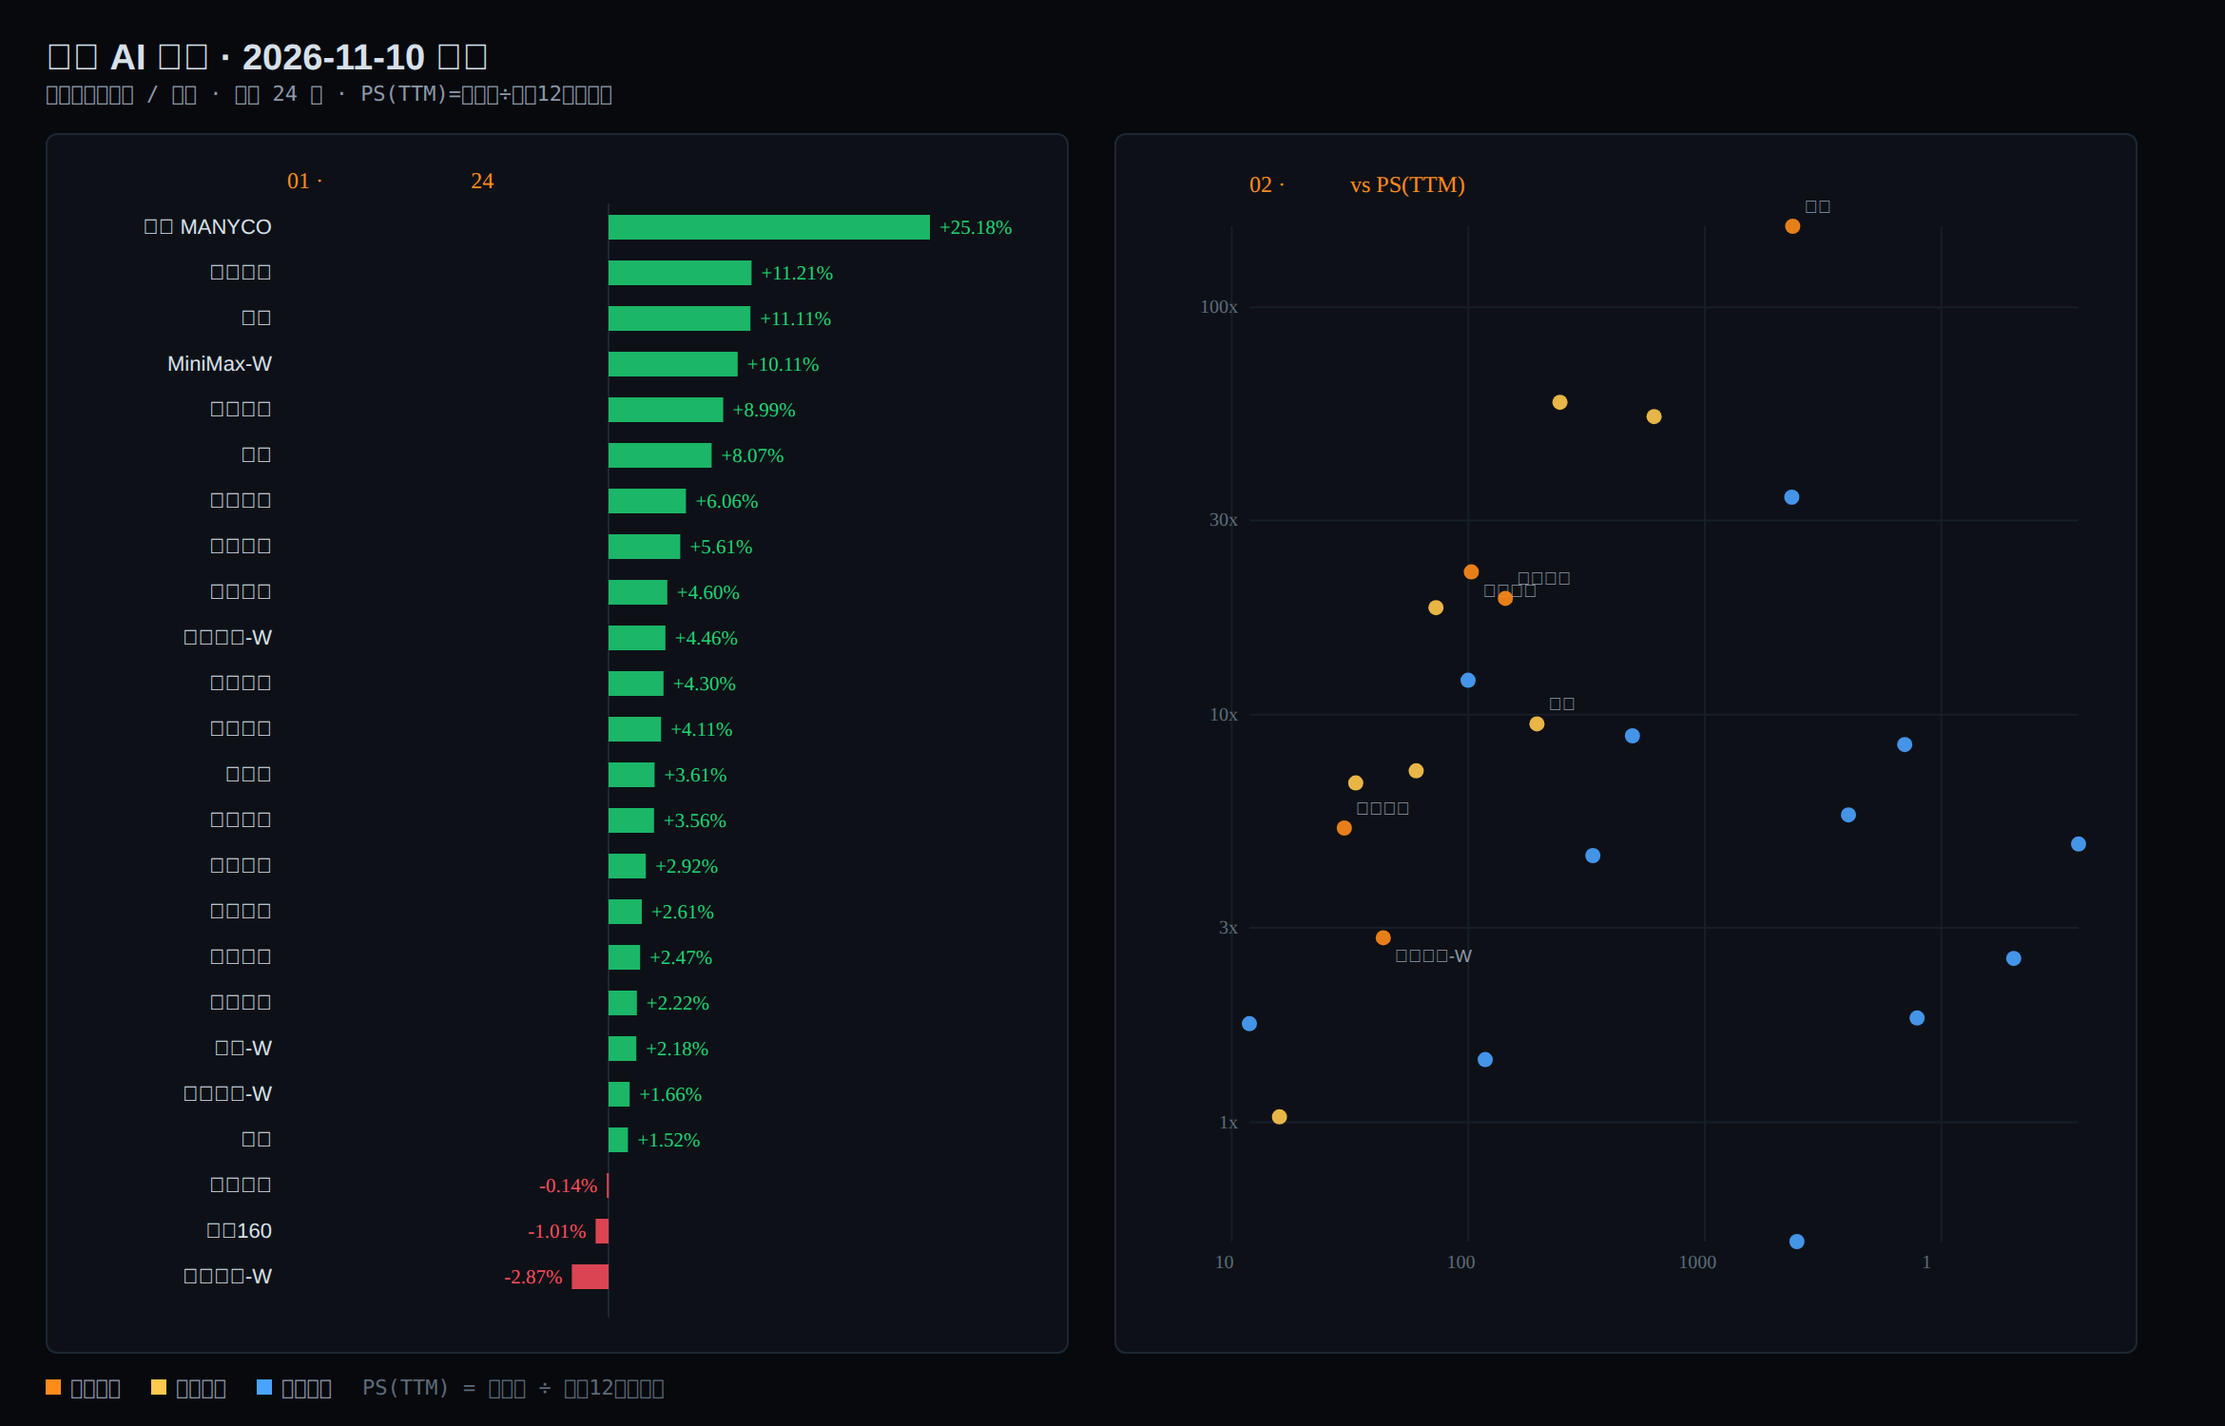
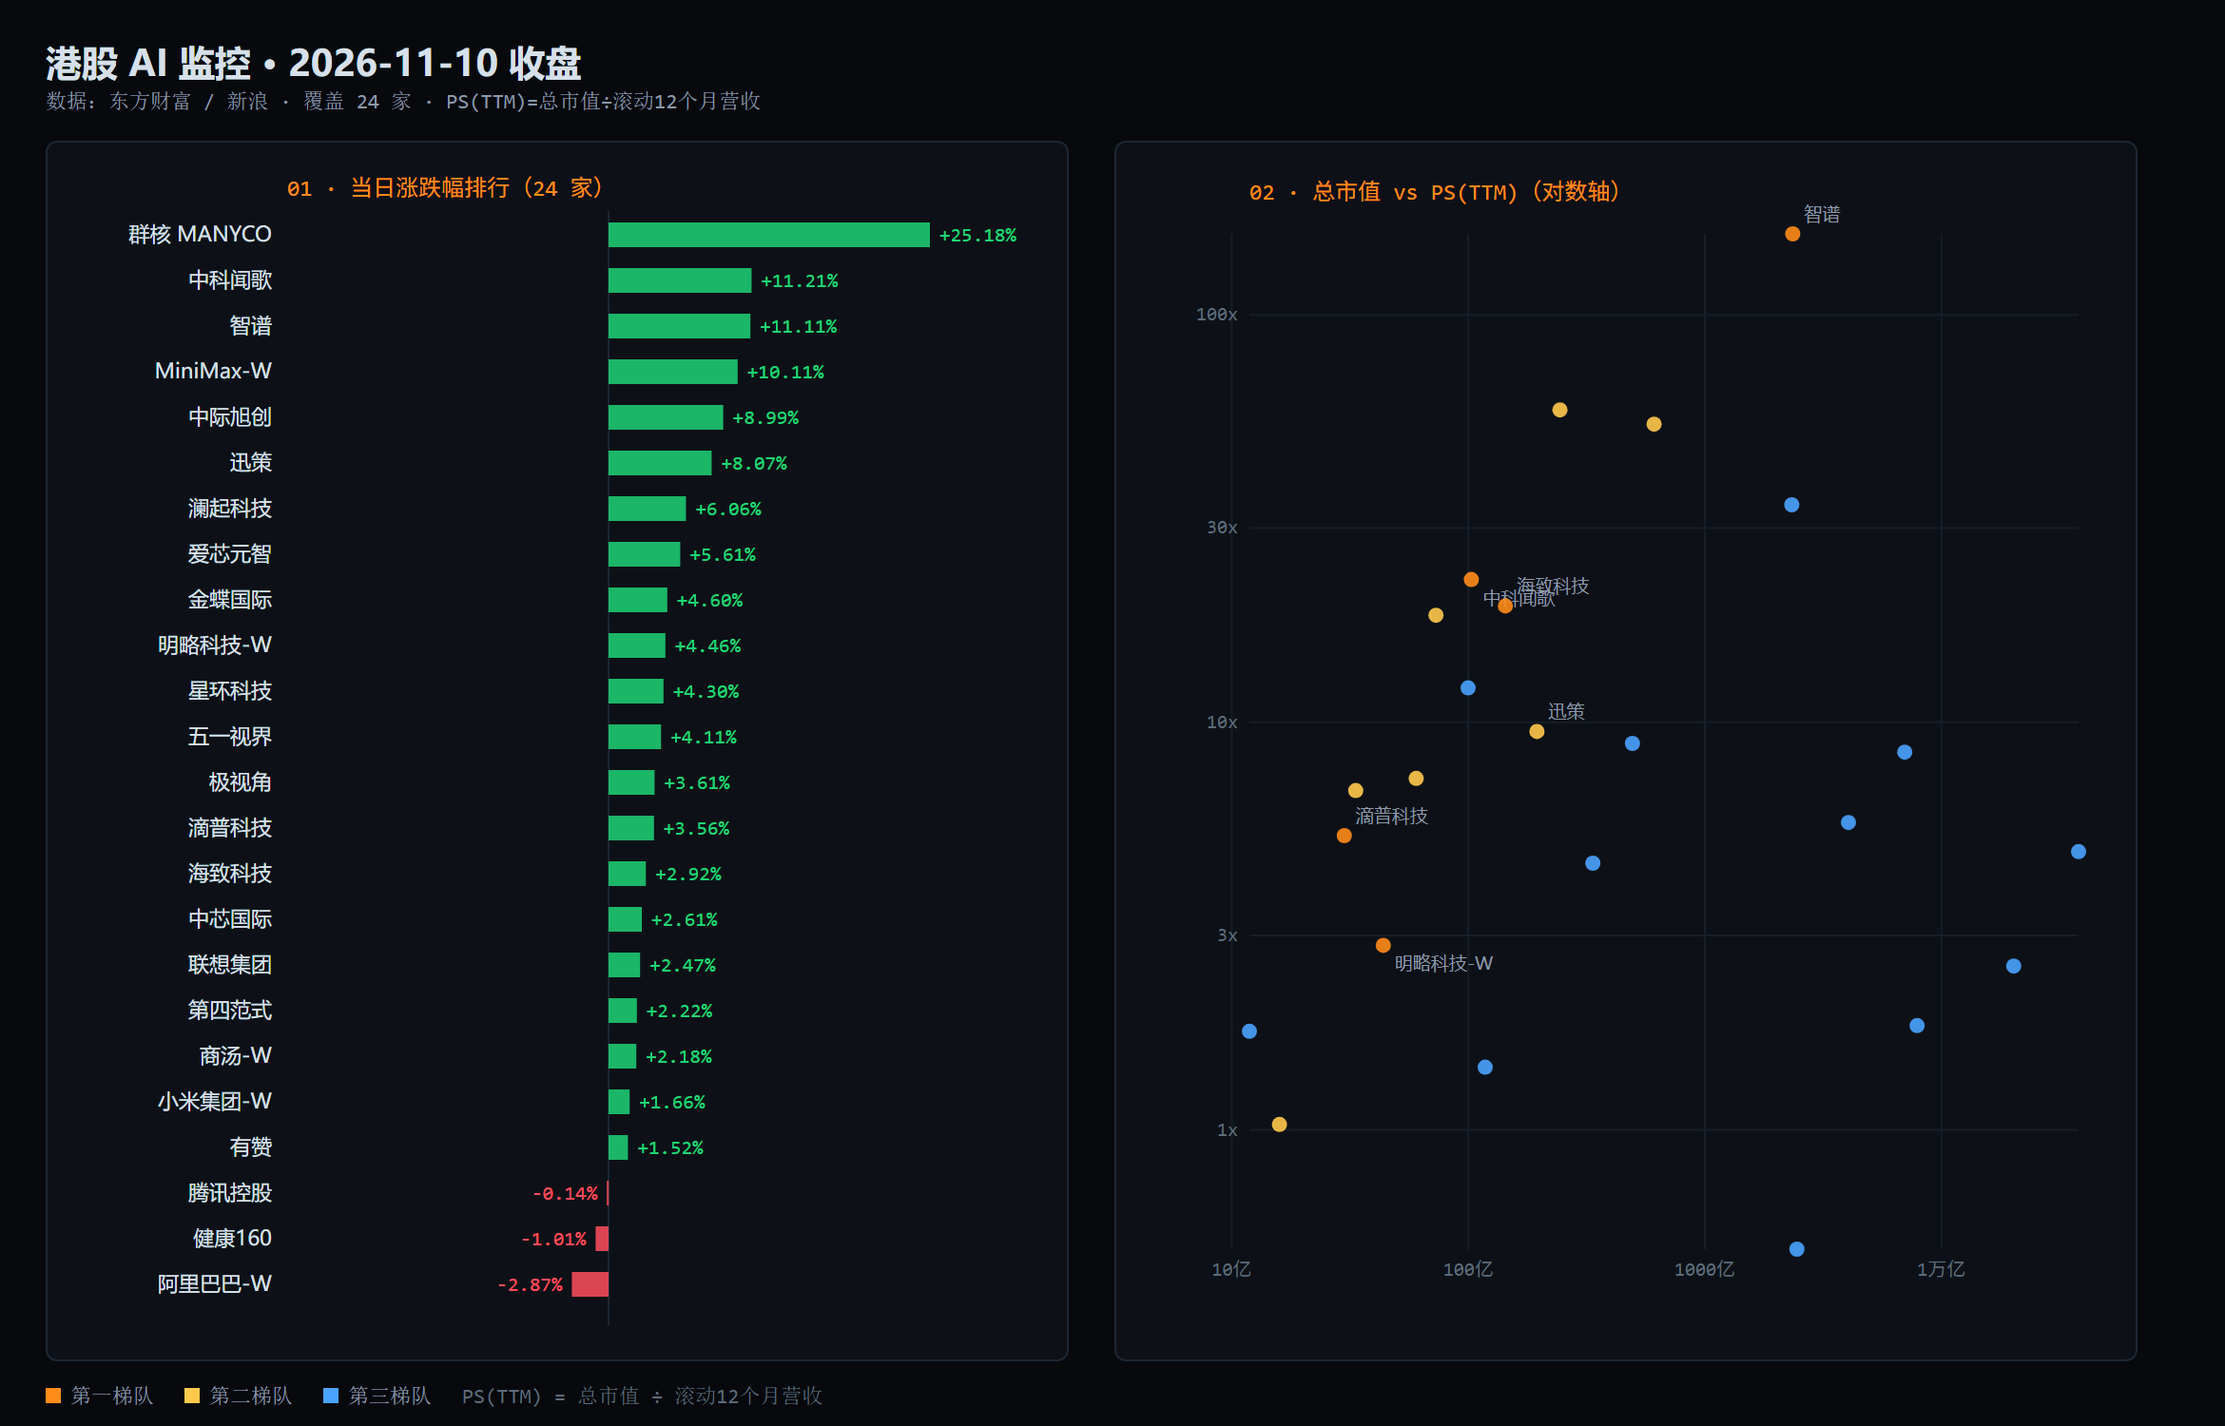
feat: 每日只推一次收盘版（16:20 港时）+ 收盘时间固定标 16:00 + 推送去重

diff --git a/reports/2026-11-10-close.html b/reports/2026-11-10-close.html
@@ -38,7 +38,7 @@ font-family:var(--mono);font-size:11px;color:var(--faint);text-align:center}
 </style></head><body><div class="wrap">
 <header><div class="kicker">● HK AI SECTOR DAILY · 港股AI日报</div>
 <h1>港股 AI 行业每日情报简报</h1>
-<div class="meta">报告日期 <b>2026-11-10</b> · 行情时点 <b>2026/11/10 16:09</b> · 覆盖 <b>24</b> 家 · 生成于 2026-11-10 08:37:14</div>
+<div class="meta">报告日期 <b>2026-11-10</b> · 行情时点 <b>2026/11/10 16:00</b> · 覆盖 <b>24</b> 家 · 生成于 2026-11-10 16:39:32</div>
 </header>
 <h2>01 · 大盘指数</h2><div class="idx"><div class="card"><div class="n">恒生指数 HSI</div><div class="v">24557.04</div><div class="c u">+0.44% · +108.09</div></div><div class="card"><div class="n">恒生科技指数 HSTECH</div><div class="v">4084.45</div><div class="c u">+1.08% · +43.72</div></div></div>
 <h2>02 · 第一梯队（5 家）</h2><table><thead><tr><th>公司 / 代码</th><th class='num'>收盘</th><th class='num'>涨跌幅</th><th class='num'>成交额</th><th class='num'>总市值(HKD)</th><th class='num'>PS(TTM)</th><th>最新资讯</th></tr></thead><tbody><tr><td class='nm'>滴普科技 <span class='code'>01384</span></td><td class='num'>8.570</td><td class='num u'>+3.56%</td><td class='num'>1.30亿</td><td class='num'>29.9亿</td><td class='num'>5.3x</td><td><a href="http://finance.eastmoney.com/a/202610223904614430.html">滴普科技大比例解禁在即 股价单日跌超30%</a> <span class="dim">10-22 · 东方财富</span></td></tr><tr><td class='nm'>中科闻歌 <span class='code'>01956</span></td><td class='num'>59.050</td><td class='num u'>+11.21%</td><td class='num'>829万</td><td class='num'>103.0亿</td><td class='num'>22.4x</td><td><a href="http://insurance.eastmoney.com/a/202611053923813476.html">中科闻歌ScienceOra走进WorkBuddy，助力药物研发分析与科研决策</a> <span class="dim">11-05 · 东方财富</span></td></tr><tr><td class='nm'>海致科技 <span class='code'>02706</span></td><td class='num'>35.300</td><td class='num u'>+2.92%</td><td class='num'>3482万</td><td class='num'>143.4亿</td><td class='num'>19.3x</td><td><a href="http://finance.eastmoney.com/a/202611043922253652.html">海致科技集团：11月4日购股权获行使205.90万股</a> <span class="dim">11-04 · 东方财富</span></td></tr><tr><td class='nm'>明略科技-W <span class='code'>02718</span></td><td class='num'>28.600</td><td class='num u'>+4.46%</td><td class='num'>1782万</td><td class='num'>43.7亿</td><td class='num'>2.8x</td><td><a href="http://finance.eastmoney.com/a/202611043921631171.html">明略科技(2718.HK)多款产品完成腾讯WorkBuddy接入，以垂直行业Ag</a> <span class="dim">11-04 · 东方财富</span></td></tr><tr><td class='nm'>智谱 <span class='code'>02513</span></td><td class='num'>482.000</td><td class='num u'>+11.11%</td><td class='num'>41.77亿</td><td class='num'>2350.2亿</td><td class='num'>158.0x</td><td><a href="http://hk.eastmoney.com/a/202611103927194531.html">港股午评：恒指、恒科震荡收涨；半导体领涨，硬件设备、有色、银行上涨；石油石化、煤</a> <span class="dim">今日 · 东方财富</span></td></tr></tbody></table>

diff --git a/reports/index.html b/reports/index.html
@@ -38,7 +38,7 @@ font-family:var(--mono);font-size:11px;color:var(--faint);text-align:center}
 </style></head><body><div class="wrap">
 <header><div class="kicker">● HK AI SECTOR DAILY · 港股AI日报</div>
 <h1>港股 AI 行业每日情报简报</h1>
-<div class="meta">报告日期 <b>2026-11-10</b> · 行情时点 <b>2026/11/10 16:09</b> · 覆盖 <b>24</b> 家 · 生成于 2026-11-10 08:37:14</div>
+<div class="meta">报告日期 <b>2026-11-10</b> · 行情时点 <b>2026/11/10 16:00</b> · 覆盖 <b>24</b> 家 · 生成于 2026-11-10 16:39:32</div>
 </header>
 <h2>01 · 大盘指数</h2><div class="idx"><div class="card"><div class="n">恒生指数 HSI</div><div class="v">24557.04</div><div class="c u">+0.44% · +108.09</div></div><div class="card"><div class="n">恒生科技指数 HSTECH</div><div class="v">4084.45</div><div class="c u">+1.08% · +43.72</div></div></div>
 <h2>02 · 第一梯队（5 家）</h2><table><thead><tr><th>公司 / 代码</th><th class='num'>收盘</th><th class='num'>涨跌幅</th><th class='num'>成交额</th><th class='num'>总市值(HKD)</th><th class='num'>PS(TTM)</th><th>最新资讯</th></tr></thead><tbody><tr><td class='nm'>滴普科技 <span class='code'>01384</span></td><td class='num'>8.570</td><td class='num u'>+3.56%</td><td class='num'>1.30亿</td><td class='num'>29.9亿</td><td class='num'>5.3x</td><td><a href="http://finance.eastmoney.com/a/202610223904614430.html">滴普科技大比例解禁在即 股价单日跌超30%</a> <span class="dim">10-22 · 东方财富</span></td></tr><tr><td class='nm'>中科闻歌 <span class='code'>01956</span></td><td class='num'>59.050</td><td class='num u'>+11.21%</td><td class='num'>829万</td><td class='num'>103.0亿</td><td class='num'>22.4x</td><td><a href="http://insurance.eastmoney.com/a/202611053923813476.html">中科闻歌ScienceOra走进WorkBuddy，助力药物研发分析与科研决策</a> <span class="dim">11-05 · 东方财富</span></td></tr><tr><td class='nm'>海致科技 <span class='code'>02706</span></td><td class='num'>35.300</td><td class='num u'>+2.92%</td><td class='num'>3482万</td><td class='num'>143.4亿</td><td class='num'>19.3x</td><td><a href="http://finance.eastmoney.com/a/202611043922253652.html">海致科技集团：11月4日购股权获行使205.90万股</a> <span class="dim">11-04 · 东方财富</span></td></tr><tr><td class='nm'>明略科技-W <span class='code'>02718</span></td><td class='num'>28.600</td><td class='num u'>+4.46%</td><td class='num'>1782万</td><td class='num'>43.7亿</td><td class='num'>2.8x</td><td><a href="http://finance.eastmoney.com/a/202611043921631171.html">明略科技(2718.HK)多款产品完成腾讯WorkBuddy接入，以垂直行业Ag</a> <span class="dim">11-04 · 东方财富</span></td></tr><tr><td class='nm'>智谱 <span class='code'>02513</span></td><td class='num'>482.000</td><td class='num u'>+11.11%</td><td class='num'>41.77亿</td><td class='num'>2350.2亿</td><td class='num'>158.0x</td><td><a href="http://hk.eastmoney.com/a/202611103927194531.html">港股午评：恒指、恒科震荡收涨；半导体领涨，硬件设备、有色、银行上涨；石油石化、煤</a> <span class="dim">今日 · 东方财富</span></td></tr></tbody></table>

diff --git a/reports/latest.html b/reports/latest.html
@@ -38,7 +38,7 @@ font-family:var(--mono);font-size:11px;color:var(--faint);text-align:center}
 </style></head><body><div class="wrap">
 <header><div class="kicker">● HK AI SECTOR DAILY · 港股AI日报</div>
 <h1>港股 AI 行业每日情报简报</h1>
-<div class="meta">报告日期 <b>2026-11-10</b> · 行情时点 <b>2026/11/10 16:09</b> · 覆盖 <b>24</b> 家 · 生成于 2026-11-10 08:37:14</div>
+<div class="meta">报告日期 <b>2026-11-10</b> · 行情时点 <b>2026/11/10 16:00</b> · 覆盖 <b>24</b> 家 · 生成于 2026-11-10 16:39:32</div>
 </header>
 <h2>01 · 大盘指数</h2><div class="idx"><div class="card"><div class="n">恒生指数 HSI</div><div class="v">24557.04</div><div class="c u">+0.44% · +108.09</div></div><div class="card"><div class="n">恒生科技指数 HSTECH</div><div class="v">4084.45</div><div class="c u">+1.08% · +43.72</div></div></div>
 <h2>02 · 第一梯队（5 家）</h2><table><thead><tr><th>公司 / 代码</th><th class='num'>收盘</th><th class='num'>涨跌幅</th><th class='num'>成交额</th><th class='num'>总市值(HKD)</th><th class='num'>PS(TTM)</th><th>最新资讯</th></tr></thead><tbody><tr><td class='nm'>滴普科技 <span class='code'>01384</span></td><td class='num'>8.570</td><td class='num u'>+3.56%</td><td class='num'>1.30亿</td><td class='num'>29.9亿</td><td class='num'>5.3x</td><td><a href="http://finance.eastmoney.com/a/202610223904614430.html">滴普科技大比例解禁在即 股价单日跌超30%</a> <span class="dim">10-22 · 东方财富</span></td></tr><tr><td class='nm'>中科闻歌 <span class='code'>01956</span></td><td class='num'>59.050</td><td class='num u'>+11.21%</td><td class='num'>829万</td><td class='num'>103.0亿</td><td class='num'>22.4x</td><td><a href="http://insurance.eastmoney.com/a/202611053923813476.html">中科闻歌ScienceOra走进WorkBuddy，助力药物研发分析与科研决策</a> <span class="dim">11-05 · 东方财富</span></td></tr><tr><td class='nm'>海致科技 <span class='code'>02706</span></td><td class='num'>35.300</td><td class='num u'>+2.92%</td><td class='num'>3482万</td><td class='num'>143.4亿</td><td class='num'>19.3x</td><td><a href="http://finance.eastmoney.com/a/202611043922253652.html">海致科技集团：11月4日购股权获行使205.90万股</a> <span class="dim">11-04 · 东方财富</span></td></tr><tr><td class='nm'>明略科技-W <span class='code'>02718</span></td><td class='num'>28.600</td><td class='num u'>+4.46%</td><td class='num'>1782万</td><td class='num'>43.7亿</td><td class='num'>2.8x</td><td><a href="http://finance.eastmoney.com/a/202611043921631171.html">明略科技(2718.HK)多款产品完成腾讯WorkBuddy接入，以垂直行业Ag</a> <span class="dim">11-04 · 东方财富</span></td></tr><tr><td class='nm'>智谱 <span class='code'>02513</span></td><td class='num'>482.000</td><td class='num u'>+11.11%</td><td class='num'>41.77亿</td><td class='num'>2350.2亿</td><td class='num'>158.0x</td><td><a href="http://hk.eastmoney.com/a/202611103927194531.html">港股午评：恒指、恒科震荡收涨；半导体领涨，硬件设备、有色、银行上涨；石油石化、煤</a> <span class="dim">今日 · 东方财富</span></td></tr></tbody></table>

diff --git a/scripts/run.py b/scripts/run.py
@@ -29,20 +29,20 @@ from report import build_html, build_markdown  # noqa: E402
 ROOT = os.path.dirname(os.path.dirname(os.path.abspath(__file__)))
 WATCHLIST = os.path.join(ROOT, "config", "watchlist.json")
 STATE = os.path.join(ROOT, ".cache", "last_message.json")
+PUSHED = os.path.join(ROOT, ".cache", "pushed.json")
 
 
 def _resolve_mode(mode):
     """根据香港时间确定版本，避免盘中数据被标成「收盘」。
-    港股时段：09:30 开盘、12:00-13:00 午休、16:00 收盘。
-    < 09:30 → early；09:30-16:05 → intraday；>= 16:05 → close。
+    港股：09:30 开盘、12:00-13:00 午休、16:00 收市（16:10 收盘竞价结束）。
+    < 09:30 → early；09:30-16:10 → intraday；>= 16:10 → close。
     """
     import time as _t
     g = _t.gmtime(_t.time() + 8 * 3600)
     hhmm = g.tm_hour * 100 + g.tm_min
-    weekday = g.tm_wday < 5          # 周一至周五
-    if not weekday or hhmm < 930:
+    if g.tm_wday >= 5 or hhmm < 930:      # 周末或开盘前
         return "early", mode
-    if hhmm < 1605:
+    if hhmm < 1610:                        # 收盘竞价尚未结束，价格还会变
         return "intraday", mode
     return "close", mode
 
@@ -79,6 +79,18 @@ def _build(args):
         if b.get("date"):
             data_ts = "%s %s" % (b["date"], b.get("time", ""))
             break
+    if mode == "close":
+        # 收盘版一律标 16:00 收盘价（16:10 后取到的即为收盘竞价终值）
+        data_ts = "%s 16:00" % today.replace("-", "/")
+        latest = 0
+        for r in snap["rows"]:
+            if r.get("quote_ts"):
+                latest = max(latest, int(r["quote_ts"]))
+        if latest:
+            import time as _t
+            g = _t.gmtime(latest + 8 * 3600)
+            if g.tm_hour * 100 + g.tm_min < 1555:
+                print("      ⚠ 行情源最新时点仅 %02d:%02d，可能未定格" % (g.tm_hour, g.tm_min))
     report_url = (args.report_url_base.rstrip("/") + "/latest.html") if args.report_url_base else ""
 
     print("[3/5] 生成报告 …")
@@ -128,6 +140,13 @@ def _push(args):
     st = load_json(STATE)
     if not st:
         raise SystemExit("没有待推送消息，请先跑 --phase build")
+    # 每天每个版本只发一次（防止 cron 延迟 / 手动补发导致重复）
+    key = "%s-%s" % (st.get("today"), st.get("mode"))
+    done = load_json(PUSHED) or {}
+    if not args.force and not args.dry_run and done.get("key") == key:
+        print("[4/5] 今日 %s 版已于 %s 推送过，跳过以免重复（需重发请加 --force）"
+              % (key, done.get("at", "?")))
+        return 0
     text = st["text"]
     if st.get("png_name") and args.img_base:
         url = "%s/%s" % (args.img_base.rstrip("/"), st["png_name"])
@@ -136,6 +155,10 @@ def _push(args):
     print("[4/5] 推送钉钉 …")
     ok, sizes = push_text(text, title=st["title"], dry_run=args.dry_run,
                           card_url=st.get("report_url") or None)
+    if ok and not args.dry_run:
+        import time as _t
+        save_json(PUSHED, {"key": key, "ts": int(_t.time()),
+                           "at": _t.strftime("%Y-%m-%d %H:%M", _t.gmtime(_t.time() + 8 * 3600))})
     print("[5/5] 完成 ｜ %s ｜ 分条 %s ｜ markdown %s"
           % ("dry-run 未推送" if args.dry_run else ("推送成功 OK" if ok else "推送失败 FAILED"),
              sizes, st.get("md_path")))
@@ -144,11 +167,12 @@ def _push(args):
 
 def main():
     ap = argparse.ArgumentParser()
-    ap.add_argument("--mode", choices=["close", "early", "auto"], default="auto",
-                    help="close=收盘 / early=早盘前 / auto=按香港时间自动判定")
+    ap.add_argument("--mode", choices=["close", "early", "intraday", "auto"], default="auto",
+                    help="close=收盘 / early=早盘前 / intraday=盘中 / auto=按香港时间自动判定")
     ap.add_argument("--phase", choices=["all", "build", "push"], default="all")
     ap.add_argument("--days", type=int, default=5, help="公告回溯天数")
     ap.add_argument("--dry-run", action="store_true", help="只打印消息，不推送")
+    ap.add_argument("--force", action="store_true", help="即使今日该版本已推送过也重发")
     ap.add_argument("--no-push", action="store_true", help="不推送，只生成")
     ap.add_argument("--no-chart", action="store_true", help="不生成图表 PNG")
     ap.add_argument("--refresh-fin", action="store_true", help="强制刷新财务缓存")

diff --git a/reports/2026-11-10-close.md b/reports/2026-11-10-close.md
@@ -1,5 +1,5 @@
 > 🟢 **恒生指数 24557.04** +0.44% ｜ 🟢 **恒生科技指数 4084.45** +1.08%
-> 🗓 港股AI日报 ｜ 📦 覆盖 24 家 ｜ ⏱ 收盘 2026/11/10 16:09 ｜ 📊 PS = 市值/TTM营收
+> 🗓 港股AI日报 ｜ 📦 覆盖 24 家 ｜ ⏱ 收盘 2026/11/10 16:00 ｜ 📊 PS = 市值/TTM营收
 
 ### 🔥 01 · 核心观察
 - 🚀 **群核 MANYCORE（00068）** +25.18%：池内最强，市值 60.2亿HKD、PS 7.3x
